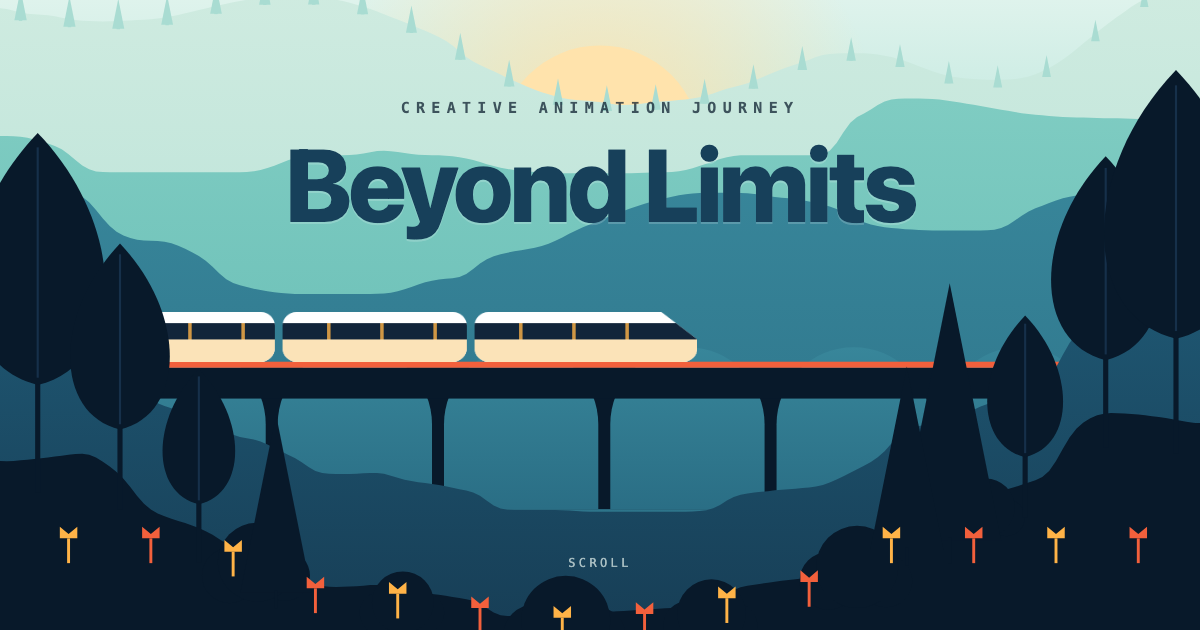
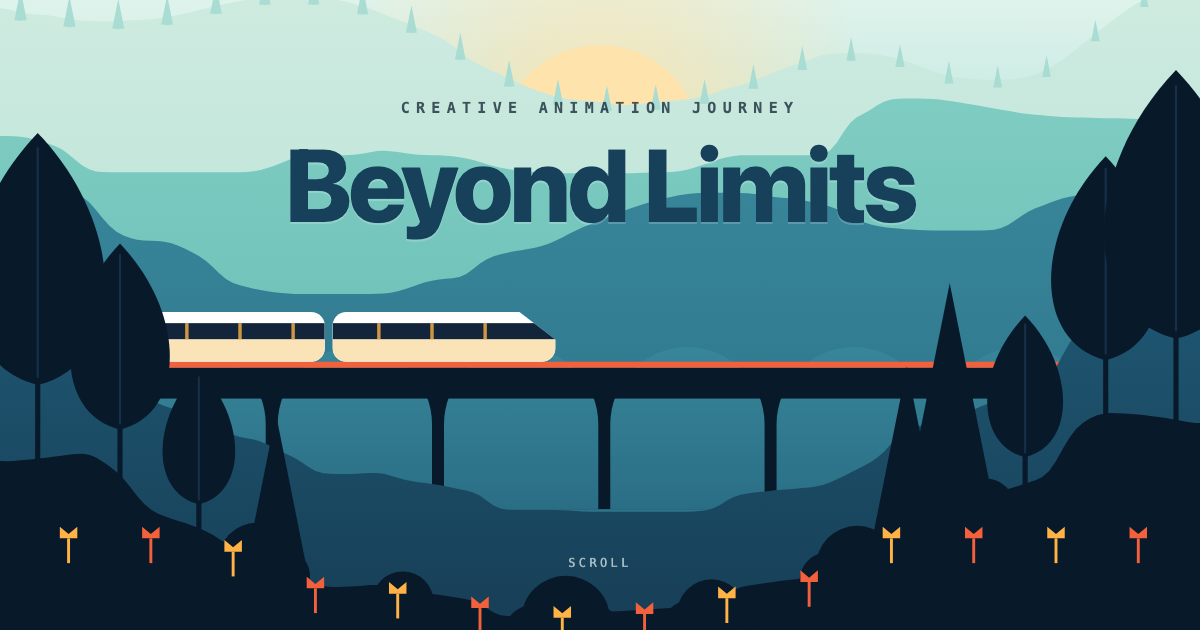
feat(parallax): bind the train to scroll, at the recording's own ratio
The train ran on a 12s clock. Now it is a pure function of scroll
position: scroll down and it runs left to right, scroll back up and it
reverses. No animation, no keyframes -- just geometry.

  .train { transform: translateX(calc(-60px + var(--s) * 3.58)); }

The 3.58 is not a taste call. In the recording the train covered
1501 px/s while the page scrolled at 419 px/s (both foreground tree
apexes, same 29-frame window as the tail track). That ratio is the only
anchor the clip offers for a scroll binding, and it is what drives the
page. Crossing the viewport now takes ~589px of scroll.

Worth being precise about what changed: the ratio is MEASURED, the
binding is a DESIGN DECISION. In the source the train is time-driven --
its speed survives however fast you happened to scroll. Rebinding it to
scroll is a departure, and the example says so rather than implying the
source worked this way.

It also dissolves a problem instead of guessing around it. The train's
repeat period was never observable from a single pass, so the old page
picked 12s out of the air. A scroll-bound train has no period at all,
only position.

Verified in the browser: animation-name = none; translateX = -60.0 /
298.0 / 1014.0 / 2048.6 at s = 0 / 100 / 300 / 589, matching
-60 + 3.58s exactly; and scrolling 300 -> 100 gives dx = -716.0, so it
really does reverse. It still rides the f=0.86 layer, inheriting the
viaduct's vertical parallax for free.
[…]

Changed region(s): [[0.3083, 0.4825, 0.5858, 0.573], [0.1542, 0.4825, 0.2775, 0.573]]

diff --git a/docs/examples/parallax/index.html b/docs/examples/parallax/index.html
@@ -32,15 +32,12 @@
   .ly { position:absolute; inset:0; width:100%; height:100%; display:block;
          transform:translate3d(0, calc(var(--s) * (1 - var(--f))), 0); will-change:transform; }
 
-  /* The train: 1500 px/s measured. It covers 1400+708 user units in
-     1.41s, which is 11.71% of the chosen 12s period.
-     The period is a design choice -- a 2.25s clip cannot show how often it passes. */
-  .train { transform-box:view-box; animation:ride 12.0s linear infinite; }
-  @keyframes ride {
-    0%           { transform:translateX(-708px); }
-    11.71% { transform:translateX(1400px); }
-    100%         { transform:translateX(1400px); }
-  }
+  /* The train is bound to the scroll, not to a clock.
+     In the recording the train ran at 1500 px/s while the page scrolled at
+     419 px/s, so it covers 3.58 units for every pixel you scroll.
+     Scroll down -> it runs left to right. Scroll back up -> it reverses. */
+  .train { transform-box:view-box;
+            transform:translateX(calc(-60px + var(--s) * 3.58)); }
 
   .hero-copy { position:absolute; inset:0; display:grid; place-content:start center; text-align:center;
       z-index:5; padding:16vh 24px 0; transform:translate3d(0, calc(var(--s) * -0.35), 0);
@@ -77,8 +74,8 @@
     .ly, .hero-copy { transform:none !important; }
     .hero-copy { opacity:1 !important; }
     .scrollcue { animation:none; }
-    /* park the train mid-span rather than leaving it frozen off-screen */
-    .train { animation:none; transform:translateX(300px); }
+    /* --s never advances, so the train simply rests on the bridge */
+    .train { transform:translateX(-60px); }
   }
 </style>
 </head>
@@ -101,7 +98,8 @@
     <div class="rule b"></div>
     <p>Six layers, one scroll, and a train. The hills behind you drift slower than the trees
       beside you, and that difference is the whole illusion of depth. Every ridgeline here was
-      traced out of a 2.25-second recording; every speed below was measured from it.</p>
+      traced out of a 2.25-second recording; every speed below was measured from it. Scroll back
+      up and the train reverses — it is a function of where you are, not of what time it is.</p>
   </div>
 </section>
 
@@ -111,8 +109,8 @@
       <p>Mask alignment, reproduced at two independent scales.</p></div>
     <div class="card"><b>0.86&times;</b><h3>Deep hills</h3>
       <p>0.85&times; and 0.87&times; from two runs. The viaduct rides this layer.</p></div>
-    <div class="card"><b>1500 px/s</b><h3>The train</h3>
-      <p>Tail tracked across 28 frames. Left to right, constant within noise.</p></div>
+    <div class="card"><b>3.58 &times; scroll</b><h3>The train</h3>
+      <p>1501&nbsp;px/s train against 419&nbsp;px/s scroll in the recording. Here it is bound to your scroll, so it runs left&nbsp;&rarr;&nbsp;right as you go down.</p></div>
     <div class="card"><b>not recoverable</b><h3>The sky</h3>
       <p>A smooth gradient has no stable mask. Estimates ran &minus;0.03 to 0.63, so we don&rsquo;t claim one.</p></div>
   </div>

diff --git a/docs/gallery.html b/docs/gallery.html
@@ -99,7 +99,7 @@
       <div class="body" style="display:flex;flex-direction:column;gap:14px">
         <div>
           <h3 style="font-size:19px;margin:0 0 6px">Parallax landscape — Beyond Limits</h3>
-          <p>Six layers, one scroll, <b>and a train</b>. One clip, two clocks: the parallax is <em>scroll</em>-driven (so the recording's seconds belong to whoever scrolled), while the train is <em>time</em>-driven at a measured <b>1500&nbsp;px/s</b>. Ridgelines traced from the frames; layer speeds <b>0.72&times;</b> / <b>0.86&times;</b> reproduced at two scales. The sky, honestly, isn't recoverable.</p>
+          <p>Six layers, one scroll, <b>and a train</b>. One clip, two clocks: the parallax is <em>scroll</em>-driven (so the recording's seconds belong to whoever scrolled), while the train ran on a clock at a measured <b>1501&nbsp;px/s</b> &mdash; here it is <b>bound to your scroll</b> at the recording&rsquo;s own 3.58:1 ratio, so it reverses when you scroll back up. Ridgelines traced from the frames; layer speeds <b>0.72&times;</b> / <b>0.86&times;</b> reproduced at two scales. The sky, honestly, isn't recoverable.</p>
         </div>
         <div class="tags"><span class="t t1">parallax</span><span class="t t1">scroll-driven</span><span class="t t2">traced terrain</span><span class="t t2">moving train</span><span class="t t3">SVG layers</span></div>
         <div class="ctas" style="margin-top:auto">

diff --git a/docs/examples/parallax/generate.py b/docs/examples/parallax/generate.py
@@ -18,10 +18,13 @@ MEASURED from parallax.mov (1400x804, 60fps, 2.25s):
       0.80x +/- 0.04 against the two foreground tree apexes, consistent within noise
       with the crimson hill it sits in, so it rides that layer.
 
-  Train: tail tracked across frames 96..124. Mean speed 1500 px/s, left -> right.
-      Per-4-frame estimates scatter 1080..1800 px/s with no clean trend, so constant
-      speed is within noise and no easing is claimed. Length ~708px, height ~58px,
-      riding on the deck at y=498.
+  Train: tail tracked across frames 96..124 (the nose is hidden behind a foreground tree
+      for the whole clip and would report 16 px/s). 1501 px/s, left -> right, length ~708px,
+      height ~58px, riding the deck at y=498. Per-4-frame estimates scatter 1080..1800 px/s
+      with no trend, so constant speed is within noise and no easing is claimed.
+      In the source the train is TIME-driven. Here it is bound to the SCROLL: during the
+      recording it covered 1501/419 = 3.58 units for every pixel the page scrolled, and that
+      ratio is what drives it now. Scroll down, it runs left->right; scroll up, it reverses.
 
   Terrain: the four hill ridgelines are TRACED from the final frame, one y per column
       (see ridges.json). Occluders -- trees, bushes -- always sit above the terrain and
@@ -29,7 +32,8 @@ MEASURED from parallax.mov (1400x804, 60fps, 2.25s):
       raw trace, not its median.
 
 CHOSEN, not measured: the sky is pinned (0.00) and the gold hills set to 0.30, both inside
-the unrecoverable range. The train's repeat period (12s) is unobservable in a 2.25s clip.
+the unrecoverable range. Binding the train to scroll is a deliberate departure from the source
+(there it runs on a clock); the 3.58 ratio is measured, the binding is a design decision.
 The ground line is derived from the purple ridge -- in the source it is almost entirely
 hidden behind foreground trees. Palette: a warm sunset became a cool dawn.
 """
@@ -56,8 +60,10 @@ DECK_Y, DECK_T = 498, 36
 PIER_PITCH, ARCH_W = 194, 180
 BRIDGE_X0, BRIDGE_X1 = 116, 1300
 TRAIN_LEN, TRAIN_H = 708, 58
-TRAIN_PXS = 1500.0
-TRAIN_PERIOD = 12.0
+TRAIN_PXS = 1500.0          # measured: 1501 px/s (tail, frames 96..124)
+SCROLL_PXS = 419.0          # measured: the recorder's scroll speed (both tree apexes)
+TRAIN_PER_SCROLL = round(TRAIN_PXS / SCROLL_PXS, 2)   # 3.58 units of train per px of scroll
+TRAIN_X0 = -60              # resting offset, so the train sits on the bridge at scrollY=0
 
 
 def ridge_path(name, step=8):
@@ -202,8 +208,6 @@ band_hill = " ".join(f"L{x},{150+26*math.sin(x/165.0):.1f}" for x in range(0, W 
 band = (f'<svg class="band" viewBox="0 0 {W} {BH}" preserveAspectRatio="xMidYMax slice" aria-hidden="true">'
         f'<path d="M0,{BH} L0,150 {band_hill} L{W},{BH} Z" fill="{NAVY_A}"/>{band_trees}{band_pops}</svg>')
 
-cross_pct = round((W + TRAIN_LEN) / TRAIN_PXS / TRAIN_PERIOD * 100, 2)
-
 HTML = f'''<!doctype html>
 <html lang="en">
 <head>
@@ -238,15 +242,12 @@ HTML = f'''<!doctype html>
   .ly {{ position:absolute; inset:0; width:100%; height:100%; display:block;
          transform:translate3d(0, calc(var(--s) * (1 - var(--f))), 0); will-change:transform; }}
 
-  /* The train: {TRAIN_PXS:.0f} px/s measured. It covers {W}+{TRAIN_LEN} user units in
-     {(W+TRAIN_LEN)/TRAIN_PXS:.2f}s, which is {cross_pct}% of the chosen {TRAIN_PERIOD:.0f}s period.
-     The period is a design choice -- a 2.25s clip cannot show how often it passes. */
-  .train {{ transform-box:view-box; animation:ride {TRAIN_PERIOD}s linear infinite; }}
-  @keyframes ride {{
-    0%           {{ transform:translateX(-{TRAIN_LEN}px); }}
-    {cross_pct}% {{ transform:translateX({W}px); }}
-    100%         {{ transform:translateX({W}px); }}
-  }}
+  /* The train is bound to the scroll, not to a clock.
+     In the recording the train ran at {TRAIN_PXS:.0f} px/s while the page scrolled at
+     {SCROLL_PXS:.0f} px/s, so it covers {TRAIN_PER_SCROLL} units for every pixel you scroll.
+     Scroll down -> it runs left to right. Scroll back up -> it reverses. */
+  .train {{ transform-box:view-box;
+            transform:translateX(calc({TRAIN_X0}px + var(--s) * {TRAIN_PER_SCROLL})); }}
 
   .hero-copy {{ position:absolute; inset:0; display:grid; place-content:start center; text-align:center;
       z-index:5; padding:16vh 24px 0; transform:translate3d(0, calc(var(--s) * -0.35), 0);
@@ -283,8 +284,8 @@ HTML = f'''<!doctype html>
     .ly, .hero-copy {{ transform:none !important; }}
     .hero-copy {{ opacity:1 !important; }}
     .scrollcue {{ animation:none; }}
-    /* park the train mid-span rather than leaving it frozen off-screen */
-    .train {{ animation:none; transform:translateX(300px); }}
+    /* --s never advances, so the train simply rests on the bridge */
+    .train {{ transform:translateX({TRAIN_X0}px); }}
   }}
 </style>
 </head>
@@ -307,7 +308,8 @@ HTML = f'''<!doctype html>
     <div class="rule b"></div>
     <p>Six layers, one scroll, and a train. The hills behind you drift slower than the trees
       beside you, and that difference is the whole illusion of depth. Every ridgeline here was
-      traced out of a 2.25-second recording; every speed below was measured from it.</p>
+      traced out of a 2.25-second recording; every speed below was measured from it. Scroll back
+      up and the train reverses — it is a function of where you are, not of what time it is.</p>
   </div>
 </section>
 
@@ -317,8 +319,8 @@ HTML = f'''<!doctype html>
       <p>Mask alignment, reproduced at two independent scales.</p></div>
     <div class="card"><b>0.86&times;</b><h3>Deep hills</h3>
       <p>0.85&times; and 0.87&times; from two runs. The viaduct rides this layer.</p></div>
-    <div class="card"><b>1500 px/s</b><h3>The train</h3>
-      <p>Tail tracked across 28 frames. Left to right, constant within noise.</p></div>
+    <div class="card"><b>3.58 &times; scroll</b><h3>The train</h3>
+      <p>1501&nbsp;px/s train against 419&nbsp;px/s scroll in the recording. Here it is bound to your scroll, so it runs left&nbsp;&rarr;&nbsp;right as you go down.</p></div>
     <div class="card"><b>not recoverable</b><h3>The sky</h3>
       <p>A smooth gradient has no stable mask. Estimates ran &minus;0.03 to 0.63, so we don&rsquo;t claim one.</p></div>
   </div>

diff --git a/docs/examples/parallax/README.md b/docs/examples/parallax/README.md
@@ -20,15 +20,30 @@ A parallax is **scroll-driven**. The timing motiscope reports for this clip — 
 then 1.45s of motion — describes *the person who did the scrolling*, not the design. Replay
 those seconds and you recreate the recording, not the website.
 
-But the **train is time-driven**. Its speed is a property of the animation, and it survives
-however fast you happened to scroll. So this one clip contains two different kinds of number:
+The **train, in the source, is time-driven**: it runs on a clock at a speed that survives
+however fast you happened to scroll. So one clip carries two different kinds of number:
 
 | Quantity | Kind | Recoverable? |
 |---|---|---|
 | Layer speed **ratios** | scroll-intrinsic | yes, for four of six layers |
-| Train speed | time-intrinsic | yes — **1500 px/s** |
+| Train speed | time-intrinsic | yes — **1501 px/s** |
 | Scroll duration / hold | the recorder's | meaningless for the design |
 | Train repeat period | time-intrinsic | **no** — one pass in 2.25s tells you nothing |
+
+**Here the train is bound to the scroll instead.** That is a deliberate departure from the
+source: scroll down and it runs left → right; scroll back up and it reverses. It is a function
+of *where you are*, not of *what time it is*, so it can never be missed and never loops
+awkwardly on a page nobody is looking at.
+
+The constant is not invented. During the recording the train covered **1501 px/s** while the
+page scrolled at **419 px/s** — so it travels **3.58 units for every pixel you scroll**:
+
+```css
+.train { transform: translateX(calc(-60px + var(--s) * 3.58)); }
+```
+
+The ratio is measured; the *binding* is the design decision. Crossing the viewport takes
+~589px of scroll.
 
 ## Layer speeds
 
@@ -85,7 +100,9 @@ tree — a clamped nose would have reported a speed of 16 px/s instead of 1500.
 | Property | Value |
 |---|---|
 | Direction | left → right (nose leading) |
-| Speed | **1500 px/s** (tail, frames 96–124) |
+| Speed in the source | **1501 px/s** (tail, frames 96–124) |
+| Scroll speed in the source | **419 px/s** (both tree apexes) |
+| Bound here as | **3.58 units of train per pixel of scroll** |
 | Length | ~708 px |
 | Height | ~58 px, riding the deck at `y=498` |
 | Easing | **none claimed** |
@@ -94,8 +111,8 @@ Per-4-frame velocity estimates scatter from 1080 to 1800 px/s with no clean tren
 measurement noise from car gaps breaking the colour run, not an ease. Constant speed is within
 noise, so the recreation uses `linear`.
 
-The **repeat period is not observable**: the clip shows exactly one pass. The page uses a 12s
-period, which is a design choice; the *speed within* each pass is the measured one.
+The **repeat period is not observable**: the clip shows exactly one pass. That question
+disappears entirely once the train is bound to scroll — there is no period, only position.
 
 ## Terrain: traced, not approximated
 
@@ -116,13 +133,13 @@ Probed in a real browser: scroll to 300px, then read each layer's on-screen posi
 layer's on-screen speed relative to the page **is** its parallax factor.
 
 ```
-scrollY=300
-set_f=0.00  implied_f=0.000     TRAIN dur=12s timing=linear iter=infinite
-set_f=0.30  implied_f=0.300     train bbox w=708 h=58 y=433
-set_f=0.72  implied_f=0.720     train parent layer f=0.86
-set_f=0.86  implied_f=0.860
-set_f=0.97  implied_f=0.970     crossing 1400+708 units in 1.405s = 1500 u/s
-set_f=1.00  implied_f=1.000
+scrollY=300                     train: animation-name = none (it is pure geometry)
+set_f=0.00  implied_f=0.000     s=0    translateX = -60.0
+set_f=0.30  implied_f=0.300     s=100  translateX = 298.0     ( -60 + 3.58*100 )
+set_f=0.72  implied_f=0.720     s=300  translateX = 1014.0    ( -60 + 3.58*300 )
+set_f=0.86  implied_f=0.860     s=589  translateX = 2048.6    (fully across)
+set_f=0.97  implied_f=0.970
+set_f=1.00  implied_f=1.000     scrolling 300 -> 100: dx = -716.0  (it reverses)
 ```
 
 ## How it's built
@@ -137,11 +154,12 @@ One CSS declaration does the parallax:
 translates down exactly as fast as the page scrolls up, so it is pinned. A layer at `f = 1`
 doesn't translate at all, so it rides the page. Everything between is parallax.
 
-The train is a plain CSS keyframe on a `<g>` inside the deep-hills SVG, so it inherits that
-layer's parallax for free and only needs its own horizontal motion.
+The train is a `<g>` inside the deep-hills SVG, so it inherits that layer's vertical parallax
+for free and only needs its own horizontal term. It has **no animation at all** — its position
+is a pure function of `--s`, which is why it reverses when you scroll back up.
 
-Under `prefers-reduced-motion: reduce` the transforms are dropped and the train is **parked
-mid-span** rather than frozen off-screen — a still, correct illustration.
+Under `prefers-reduced-motion: reduce` the transforms are dropped, `--s` never advances, and the
+train simply rests on the bridge — a still, correct illustration.
 
 ## Only the palette changed
 
@@ -160,7 +178,8 @@ depth order are the source's.
 ## What's still approximate
 
 - **Sky and far-hill speeds are chosen**, as above.
-- **The train's repeat period is chosen** (12s).
+- **Binding the train to scroll is a departure from the source**, where it runs on a clock.
+  The 3.58 ratio it uses is measured; the binding is a choice.
 - **The ground line is derived**, not traced.
 - **Trees, bushes, tulips and the train's car divisions are our own drawings**, positioned to
   match the source. Only the terrain is traced.

diff --git a/CHANGELOG.md b/CHANGELOG.md
@@ -11,10 +11,14 @@ All notable changes to motiscope are documented here. The format follows
   screen recording as one self-contained page: **traced** SVG ridgelines, ~20 lines of JS,
   `prefers-reduced-motion` honoured. Live at `docs/examples/parallax/`.
   - **One clip, two clocks.** The parallax is scroll-driven, so the clip's seconds belong to
-    whoever scrolled. The **train is time-driven**: its speed is a property of the animation,
-    measured at **1500 px/s** by tracking its *tail* (the nose is hidden behind a foreground
-    tree for the whole clip; tracking it would have reported 16 px/s). Its repeat period is
-    *not* observable from one pass, so 12s is a design choice.
+    whoever scrolled. The train, in the source, is **time-driven**: its speed is a property of
+    the animation, measured at **1501 px/s** by tracking its *tail* (the nose is hidden behind a
+    foreground tree for the whole clip; tracking it would have reported 16 px/s).
+  - **The train is bound to scroll here**, a deliberate departure from the source. The constant
+    is measured, not invented: during the recording the train ran at 1501 px/s while the page
+    scrolled at 419 px/s, so it travels **3.58 units per pixel of scroll**. Scroll down, it runs
+    left→right; scroll up, it reverses. It has no animation at all — its position is a pure
+    function of scroll, so the unobservable "repeat period" question disappears.
   - **Terrain traced**, one `y` per column per layer (`ridges.json`). Occluders always sit
     above the terrain, so a ridge is the *upper quantile* of the raw trace, not its median —
     a median still follows a tree crown spanning 200 columns.